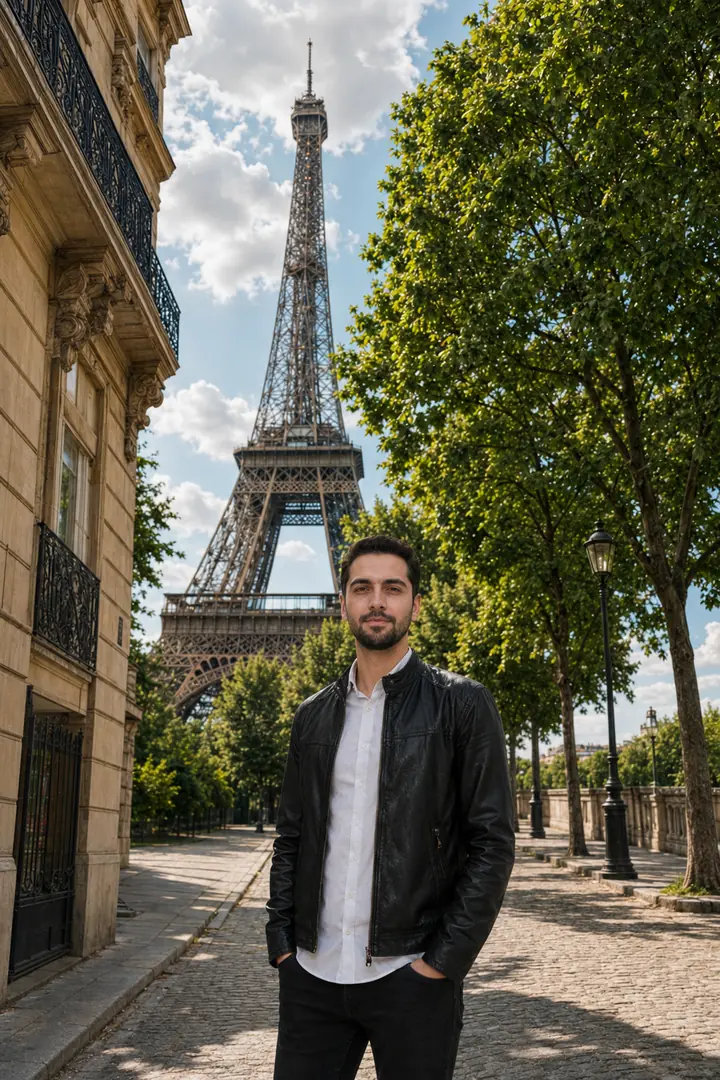
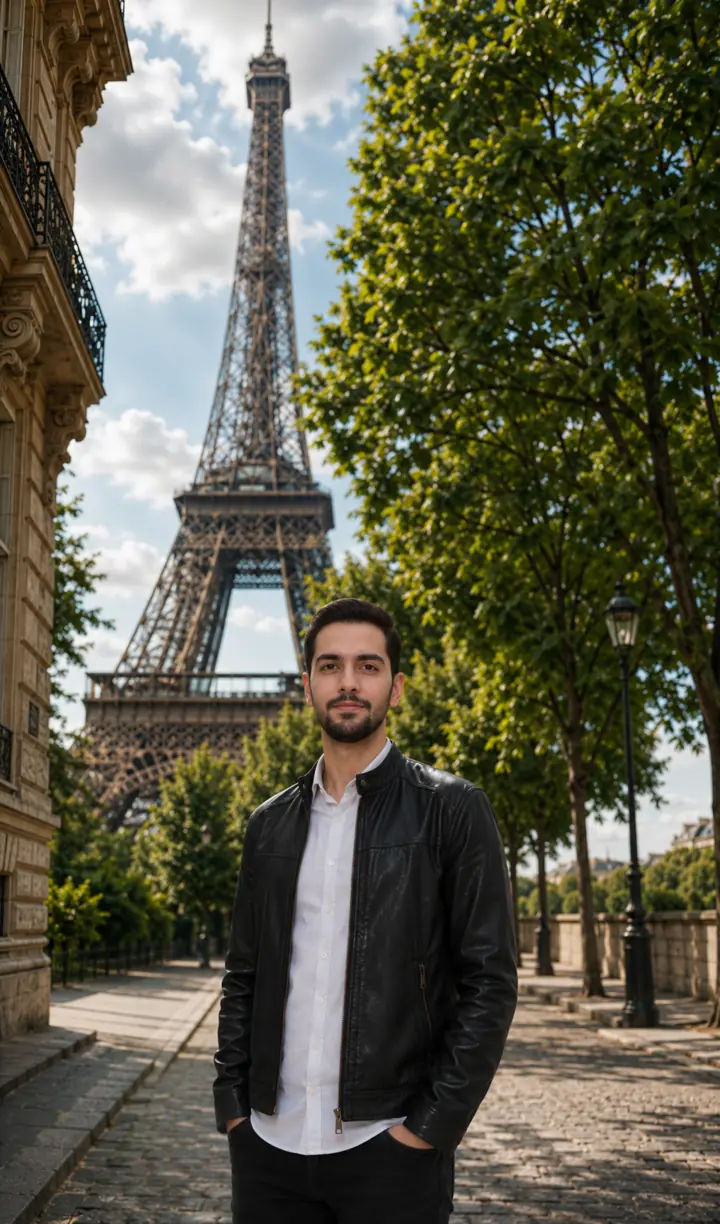
Refine homepage spacing and original portrait

diff --git a/assets/css/neural-observatory.css b/assets/css/neural-observatory.css
@@ -251,23 +251,21 @@ a {
   z-index: 35;
   top: 1.2rem;
   align-self: start;
-  height: calc(100vh - 2.4rem);
-  min-height: 43rem;
+  height: auto;
+  min-height: 0;
   margin: 1.2rem 0.55rem 1.2rem 1.2rem;
-  padding: 1rem 1rem 0;
-  overflow: auto;
+  padding: 0.8rem 0.85rem 0.2rem;
+  overflow: visible;
   border: 1px solid rgba(135, 162, 207, 0.28);
   border-radius: 1rem;
   background: linear-gradient(165deg, rgba(6, 14, 32, 0.94), rgba(3, 9, 23, 0.78));
   box-shadow: 0 22px 62px rgba(0, 0, 0, 0.24), inset 0 1px rgba(255, 255, 255, 0.02);
-  scrollbar-width: thin;
-  scrollbar-color: rgba(55, 227, 255, 0.2) transparent;
 }
 
 .neural-profile-rail__portrait {
   position: relative;
-  width: min(100%, 10.5rem);
-  margin: 0 auto 1rem;
+  width: min(100%, 8.6rem);
+  margin: 0 auto 0.55rem;
   overflow: hidden;
   aspect-ratio: 2 / 3;
   border: 1px solid rgba(55, 227, 255, 0.7);
@@ -304,12 +302,12 @@ a {
 
 .neural-profile-rail__links li {
   display: grid;
-  min-height: 4.55rem;
+  min-height: 3.35rem;
   margin: 0;
-  padding: 0 0.2rem;
+  padding: 0 0.1rem;
   grid-template-columns: 1.75rem minmax(0, 1fr);
   align-items: center;
-  gap: 0.78rem;
+  gap: 0.68rem;
   border-bottom: 1px solid rgba(132, 157, 201, 0.23);
 }
 
@@ -320,13 +318,13 @@ a {
 .neural-profile-rail__links a {
   display: grid;
   min-width: 0;
-  min-height: 4.55rem;
-  margin: 0 -0.2rem;
-  padding: 0 0.2rem;
+  min-height: 3.35rem;
+  margin: 0 -0.1rem;
+  padding: 0 0.1rem;
   grid-column: 1 / -1;
   grid-template-columns: 1.75rem minmax(0, 1fr);
   align-items: center;
-  gap: 0.78rem;
+  gap: 0.68rem;
   color: #e3eaf7;
   text-decoration: none;
 }
@@ -340,8 +338,8 @@ a {
 .neural-profile-rail__links span {
   min-width: 0;
   color: inherit;
-  font-size: 0.78rem;
-  line-height: 1.45;
+  font-size: 0.72rem;
+  line-height: 1.35;
   overflow-wrap: anywhere;
 }
 
@@ -530,7 +528,7 @@ a {
 /* Research focus */
 
 .neural-focus {
-  margin-top: 1.25rem;
+  margin-top: 1rem;
 }
 
 .neural-focus > h2 {
@@ -546,7 +544,7 @@ a {
 .neural-focus-card {
   position: relative;
   min-width: 0;
-  min-height: clamp(16.5rem, 21vw, 18rem);
+  min-height: clamp(14.25rem, 17.5vw, 15.5rem);
   overflow: hidden;
   border: 1px solid rgba(55, 227, 255, 0.58);
   border-radius: 1rem;
@@ -572,7 +570,7 @@ a {
 .neural-focus-card h3 {
   position: absolute;
   z-index: 3;
-  top: 1rem;
+  top: 0.85rem;
   left: 1.2rem;
   margin: 0;
   color: var(--neural-cyan);
@@ -588,7 +586,7 @@ a {
 .neural-focus-card__visual {
   position: absolute;
   z-index: 1;
-  inset: 2.75rem 0.35rem 0.15rem;
+  inset: 2.5rem 0.3rem 0.1rem;
 }
 
 .neural-focus-card__visual svg {
@@ -611,6 +609,20 @@ a {
 .multilingual-mark__land { fill: rgba(28, 184, 230, 0.2); stroke: rgba(94, 232, 255, 0.45); stroke-width: 0.8; }
 .multilingual-mark__network { stroke: rgba(54, 228, 255, 0.76); stroke-width: 1.1; }
 .multilingual-mark__network circle { fill: #74efff; stroke: #e3fdff; stroke-width: 0.6; filter: drop-shadow(0 0 4px rgba(55, 227, 255, 0.8)); }
+
+.multilingual-mark__speech-links {
+  fill: none;
+  stroke: rgba(55, 227, 255, 0.58);
+  stroke-width: 1.15;
+  stroke-linecap: round;
+  filter: drop-shadow(0 0 4px rgba(55, 227, 255, 0.34));
+}
+
+.multilingual-mark__speech-links circle {
+  fill: #8bf4ff;
+  stroke: #e4fdff;
+  stroke-width: 0.65;
+}
 
 .language-token path {
   fill: rgba(4, 18, 39, 0.94);
@@ -860,7 +872,7 @@ body:not(.neural-observatory-page) #main { margin-top: 7.4rem; }
   .neural-news { max-width: none; }
   .neural-focus { margin-top: 1.5rem; }
   .neural-focus__grid { grid-template-columns: 1fr; }
-  .neural-focus-card { min-height: 18rem; }
+  .neural-focus-card { min-height: 15.5rem; }
 }
 
 @media (max-width: 42rem) {
@@ -875,7 +887,7 @@ body:not(.neural-observatory-page) #main { margin-top: 7.4rem; }
   .neural-profile-rail__links { width: 100%; }
   .neural-intro h1 { font-size: clamp(2.55rem, 11vw, 3.45rem); }
   .neural-intro__text p { font-size: 0.94rem; }
-  .neural-focus-card { min-height: 16rem; }
+  .neural-focus-card { min-height: 14.5rem; }
 }
 
 @media (max-width: 34rem) {
@@ -908,7 +920,7 @@ body:not(.neural-observatory-page) #main { margin-top: 7.4rem; }
   .neural-observatory__stage { padding-right: 0.85rem; padding-left: 0.85rem; }
   .neural-news { padding-right: 1rem; padding-left: 1rem; }
   .neural-news__item { padding-left: 2.45rem; }
-  .neural-focus-card { min-height: 14.5rem; }
+  .neural-focus-card { min-height: 13.5rem; }
 }
 
 @media (prefers-reduced-motion: reduce) {

diff --git a/_includes/masthead.html b/_includes/masthead.html
@@ -12,7 +12,6 @@
             </g>
             <circle cx="77" cy="24" r="2.2" fill="#37e3ff"/>
           </svg>
-          <span class="site-title-text" aria-hidden="true">AMIR HOSSEIN YARI</span>
         </a>
         <button class="neural-site-nav__toggle" type="button" aria-label="Open navigation menu" aria-controls="neural-nav-links" aria-expanded="false" data-nav-toggle><span></span><span></span><span></span></button>
         <ul class="neural-site-nav__links" id="neural-nav-links" data-nav-links>

diff --git a/_pages/about.md b/_pages/about.md
@@ -11,7 +11,7 @@ redirect_from:
 <div class="neural-observatory" data-neural-home>
   <aside class="neural-profile-rail" aria-label="Profile and contact details">
     <figure class="neural-profile-rail__portrait">
-      <img src="{{ '/images/portrait-eiffel-hq.webp' | relative_url }}" width="720" height="1080" alt="Amir Hossein Yari in Paris" decoding="async" fetchpriority="high">
+      <img src="{{ '/images/portrait-eiffel-hq.webp' | relative_url }}" width="720" height="1224" alt="Amir Hossein Yari in Paris" decoding="async" fetchpriority="high">
     </figure>
 
     <nav aria-label="Profile links">
@@ -126,6 +126,15 @@ redirect_from:
                   <circle cx="237" cy="157" r="3.5"/><circle cx="278" cy="145" r="4"/>
                   <circle cx="301" cy="170" r="3.5"/><circle cx="276" cy="216" r="3"/>
                 </g>
+              </g>
+              <g class="multilingual-mark__speech-links">
+                <path d="M326 80c12-3 21-1 30 1"/>
+                <path d="M350 116c31-4 55 7 79 19"/>
+                <path d="M330 198c35 12 61 27 89 45"/>
+                <path d="M207 118c-39 1-70 18-101 44"/>
+                <path d="M225 193c-27 18-47 39-66 62"/>
+                <circle cx="326" cy="80" r="3"/><circle cx="350" cy="116" r="3"/>
+                <circle cx="330" cy="198" r="3"/><circle cx="207" cy="118" r="3"/><circle cx="225" cy="193" r="3"/>
               </g>
               <g class="language-token" transform="translate(336 32)"><path d="M8 1h64a7 7 0 0 1 7 7v25a7 7 0 0 1-7 7H30l-10 9 2-9H8a7 7 0 0 1-7-7V8a7 7 0 0 1 7-7Z"/><text x="40" y="26">Hello</text></g>
               <g class="language-token" transform="translate(411 86)"><path d="M8 1h58a7 7 0 0 1 7 7v25a7 7 0 0 1-7 7H28l-10 9 2-9H8a7 7 0 0 1-7-7V8a7 7 0 0 1 7-7Z"/><text x="37" y="26" direction="rtl">سلام</text></g>
